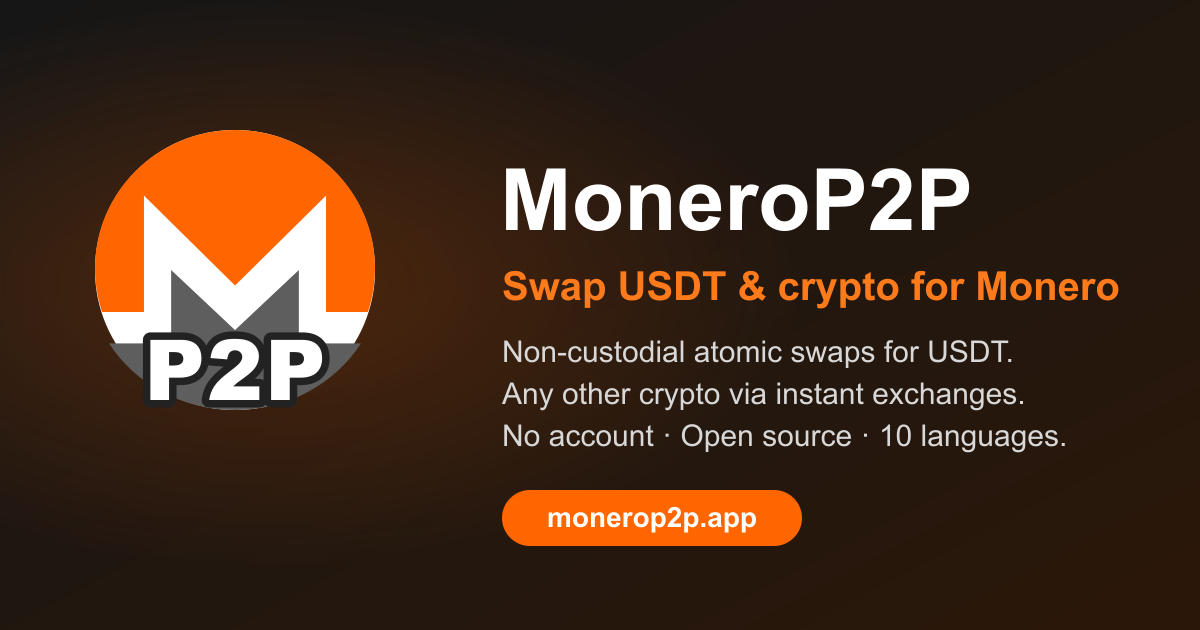
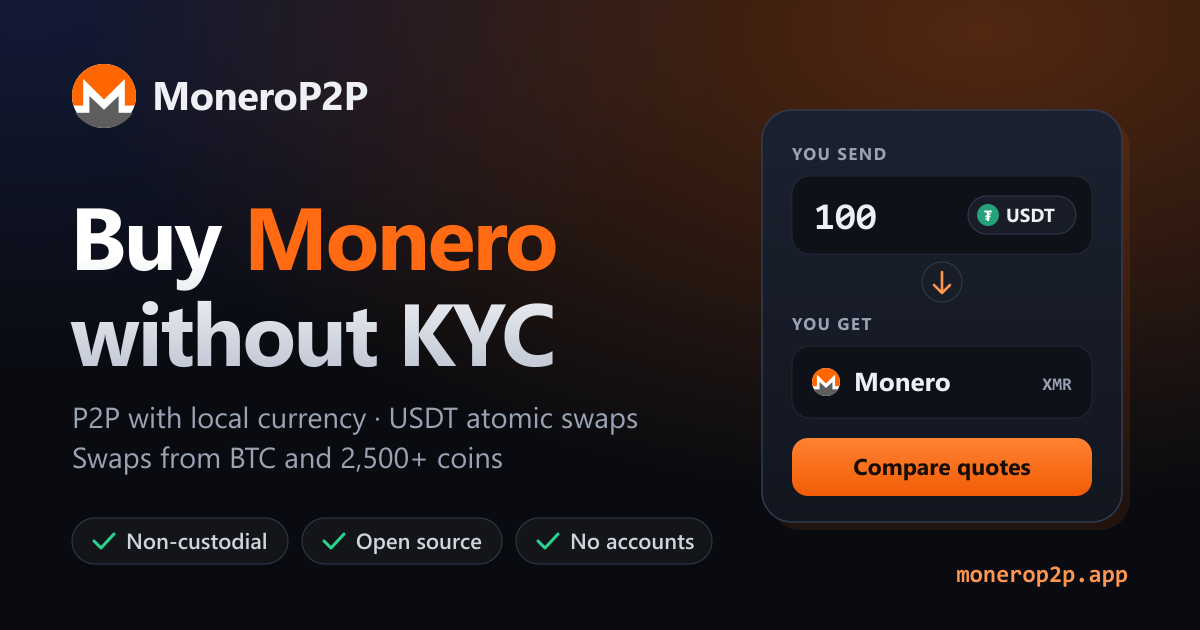
Rediseño oscuro, fase 5: imagen para redes (og.png) con el estilo nuevo y su plantilla SVG, entrada suave de las tarjetas del hero y de las respuestas desplegables (sin animación si el usuario la desactiva), barra de desplazamiento oscura, transiciones en menús y enlaces; repaso sin desbordes en 375

diff --git a/web/src/styles/global.css b/web/src/styles/global.css
@@ -496,3 +496,18 @@ main.prose article .guide-list li:hover { border-color: rgb(255 106 19 / 0.55); 
 .stats .card h3 { text-transform: uppercase; letter-spacing: 0.06em; font-size: 0.76rem; font-weight: 700; }
 .pill { border: 1px solid transparent; }
 .pill[data-state="live"] { border-color: rgb(43 211 143 / 0.3); }
+
+/* ---------- Fase 5: pulido ---------- */
+html { scrollbar-color: var(--line-strong) var(--bg); }
+a, button, summary, label { -webkit-tap-highlight-color: transparent; }
+button, .btn { touch-action: manipulation; }
+::placeholder { color: #6b7385; opacity: 1; }
+header.site nav a, footer.site a, .breadcrumbs a { transition: color 0.15s ease, background 0.15s ease; }
+.fiat-grid a:focus-visible, .card:focus-within { border-color: rgb(255 106 19 / 0.55); }
+@keyframes rise { from { opacity: 0; transform: translateY(10px); } }
+@media (prefers-reduced-motion: no-preference) {
+  html { scroll-behavior: smooth; }
+  /* Solo las tarjetas decorativas: el titular no se anima para no retrasar el pintado principal. */
+  .hero-card, .fiat-escrow { animation: rise 0.5s ease 0.05s both; }
+  details[open] > :not(summary) { animation: rise 0.2s ease both; }
+}
